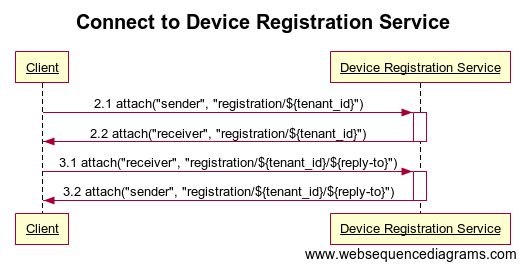
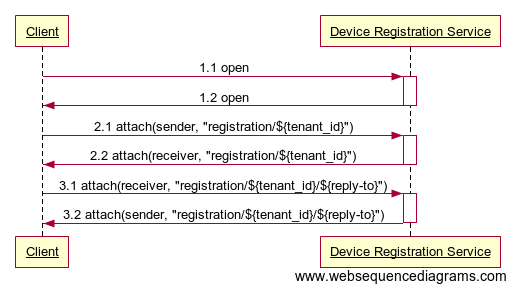
[#1271] Remove optional operations from Device Registration API spec.
Also remove obsolete properties from request and response messages.

Changed region(s): [[0.0, 0.0297, 0.9942, 0.9814]]

diff --git a/site/content/api/Device-Registration-API.md b/site/content/api/Device-Registration-API.md
@@ -1,62 +1,61 @@
 +++
-title = "Device Registration API"
+title = "Device Registration API Specification"
+slug = "Device Registration API"
 weight = 425
 +++
 
-The *Device Registration API* is used to make Eclipse Hono&trade; aware of devices that will connect to the service and send telemetry data.
-It can be used by *Protocol Adapters* to register devices that are not directly connected to Hono using an AMQP 1.0 connection.
-*Solutions* and other consumers may use the API to obtain information about a single device that is registered to Hono.
+The *Device Registration API* is used by Hono's protocol adapters to get information about devices connecting to the adapters.
 <!--more-->
-
-Note, however, that in real world applications the registration information will probably be kept and managed by an existing *system of record*, using e.g. a database for persisting the data. The Device Registration API accounts for this fact by means of defining only the [Assert Device Registration]({{< relref "#assert-device-registration" >}}) operation and the [Get Registration Information]({{< relref "#get-device-registration" >}}) operation as *mandatory*, i.e. these operations are strictly required by a Hono instance for it to work properly, whereas the remaining operations are defined as *optional* from a Hono perspective.
 
 The Device Registration API is defined by means of AMQP 1.0 message exchanges, i.e. a client needs to connect to Hono using an AMQP 1.0 client in order to invoke operations of the API as described in the following sections.
 
-## Preconditions
+<a name="preconditions"></a>
+## Preconditions for invoking the Device Registration API
 
-The preconditions for performing any of the operations are as follows:
+1. Client has established an AMQP connection with the Device Registration service.
+2. Client has established an AMQP link in role *sender* on the connection using target address `registration/${tenant_id}`. This link is used by the client to send request messages to the Device Registration service.
+3. Client has established an AMQP link in role *receiver* on the connection using source address `registration/${tenant_id}/${reply-to}` where *reply-to* may be any arbitrary string chosen by the client. This link is used by the client to receive responses to the requests it has sent to the Device Registration service. This link's source address is also referred to as the *reply-to* address for the request messages.
 
-1. Client has established an AMQP connection with Hono.
-2. Client has established an AMQP link in role *sender* with Hono using target address `registration/${tenant_id}`. This link is used by the client to send registration commands to Hono.
-3. Client has established an AMQP link in role *receiver* with Hono using source address `registration/${tenant_id}/${reply-to}` where *reply-to* may be any arbitrary string chosen by the client. This link is used by the client to receive responses to the registration requests it has sent to Hono. This link's source address is also referred to as the *reply-to* address for the request messages.
+{{< figure src="../connectToDeviceRegistration.png" alt="A client establishes an AMQP connection and the links required to invoke operations of the Device Registration service" title="Client connecting to Device Registration service" >}}
 
-This flow of messages is illustrated by the following sequence diagram (showing the AMQP performatives):
-
-![Device Registration message flow preconditions](../connectToDeviceRegistration.png)
-
-## Mandatory Operations
-
-The operations described in the following sections are invoked by Hono's components during run time and are therefore mandatory to implement.
-
-### Assert Device Registration
+## Assert Device Registration
 
 Clients use this command to verify that a device is registered for a particular tenant and is enabled.
 
-This operation is *mandatory* to implement.
-
 **Message Flow**
 
-The following sequence diagram illustrates the flow of messages involved in a *Client* getting an assertion of a device registration.
+The following sequence diagram illustrates the flow of messages involved in a *Client* asserting a device's registration status.
 
-![Assert Device Registration message flow](../assertDeviceRegistration_Success.png)
+{{< figure src="../assertDeviceRegistration_Success.png" title="Client asserting a device's registration status" alt="A client sends a request message for asserting a device's registration status and receives a response containing the registration status" >}}
 
 
 **Request Message Format**
 
-The following table provides an overview of the properties a client needs to set on a message to get registration information in addition to the [Standard Request Properties]({{< relref "#standard-request-properties" >}}).
+The following table provides an overview of the properties a client needs to set on a message to assert a device's registration status:
 
-| Name         | Mandatory | Location                 | AMQP Type | Description |
-| :----------- | :-------: | :----------------------- | :-------- | :---------- |
-| *subject*    | yes       | *properties*             | *string*  | MUST be set to `assert`. |
-| *gateway_id* | no        | *application-properties* | *string*  | The identifier of the gateway that wants to get an assertion *on behalf* of another device (given in the *device_id* property).<br>An implementation SHOULD verify that the gateway exists, is enabled and is authorized to get an assertion for, and thus send data on behalf of, the device. |
+| Name             | Mandatory | Location                 | AMQP Type    | Description |
+| :--------------- | :-------: | :----------------------- | :----------- | :---------- |
+| *correlation-id* | no        | *properties*             | *message-id* | MAY contain an ID used to correlate a response message to the original request. If set, it is used as the *correlation-id* property in the response, otherwise the value of the *message-id* property is used. Either this or the *message-id* property MUST be set. |
+| *device_id*      | yes       | *application-properties* | *string*     | MUST contain the ID of the device that is subject to the operation. |
+| *gateway_id*     | no        | *application-properties* | *string*     | The identifier of the gateway that wants to get an assertion *on behalf* of another device (given in the *device_id* property).<br>An implementation SHOULD verify that the gateway exists, is enabled and is authorized to get an assertion for, and thus send data on behalf of, the device. |
+| *message-id*     | no        | *properties*             | *string*     | MAY contain an identifier that uniquely identifies the message at the sender side. Either this or the *correlation-id* property MUST be set. |
+| *reply-to*       | yes       | *properties*             | *string*     | MUST contain the source address that the client wants to received response messages from. This address MUST be the same as the source address used for establishing the client's receive link (see [Preconditions]({{< relref "#preconditions" >}})). |
+| *subject*        | yes       | *properties*             | *string*     | MUST be set to `assert`. |
 
 The body of the message SHOULD be empty and will be ignored if it is not.
 
 **Response Message Format**
 
-A response to an *assertion* request contains the [Standard Response Properties]({{< relref "#standard-response-properties" >}}).
+The following table provides an overview of the properties contained in a response message to an *assert* request:
 
-The body of the response message consists of a single *Data* section containing a UTF-8 encoded string representation of a single JSON object having the following properties:
+| Name             | Mandatory | Location                 | AMQP Type    | Description |
+| :--------------- | :-------: | :----------------------- | :----------- | :---------- |
+| *correlation-id* | yes       | *properties*             | *message-id* | Contains the *message-id* (or the *correlation-id*, if specified) of the request message that this message is the response to. |
+| *content-type*   | no        | *properties*             | *string*     | MUST be set to `application/json` if the invocation of the operation was successful and the body of the response message contains payload as described below. |
+| *status*         | yes       | *application-properties* | *int*        | Contains the status code indicating the outcome of the operation. Concrete values and their semantics are defined below. |
+| *cache_control*  | no        | *application-properties* | *string*     | Contains an [RFC 2616](https://tools.ietf.org/html/rfc2616#section-14.9) compliant <em>cache directive</em>. The directive contained in the property MUST be obeyed by clients that are caching responses. |
+
+In case of a successful invocation of the operation, the body of the response message consists of a single *Data* section containing a UTF-8 encoded string representation of a single JSON object having the following properties:
 
 | Name             | Mandatory | JSON Type     | Description |
 | :--------------- | :-------: | :------------ | :---------- |
@@ -79,277 +78,18 @@ The response message's *status* property may contain the following codes:
 
 | Code  | Description |
 | :---- | :---------- |
-| *200* | OK, the device is registered for the given tenant and is enabled. The payload contains the asserted device's default properties (if any). |
+| *200* | OK, the device is registered for the given tenant and is enabled. The response message body contains the asserted device's registration status. |
+| *400* | Bad Request, the request message did not contain all mandatory properties.
 | *403* | Forbidden, the gateway with the given *gateway id* either does not exist, is not enabled or is not authorized to get an assertion for the device with the given *device id*. |
 | *404* | Not Found, there is no device registered with the given *device id* within the given *tenant id* or the device is not enabled. |
 
-For status codes indicating an error (codes in the `400 - 499` range) the message body MAY contain a detailed description of the error that occurred.
-
-
-### Get Registration Information
-
-Clients use this command to *retrieve* information about a registered device.
-
-This operation is *mandatory* to implement.
-
-**Message Flow**
-
-
-The following sequence diagram illustrates the flow of messages involved in a *Client* retrieving registration information.
-
-![Get Registration Information message flow](../getDeviceInformation_Success.png)
-
-
-**Request Message Format**
-
-The following table provides an overview of the properties a client needs to set on a message to get registration information in addition to the [Standard Request Properties]({{< relref "#standard-request-properties" >}}).
-
-| Name        | Mandatory | Location                 | AMQP Type | Description |
-| :---------- | :-------: | :----------------------- | :-------- | :---------- |
-| *subject*   | yes       | *properties*             | *string*  | MUST be set to `get`. |
-
-The body of the message SHOULD be empty and will be ignored if it is not.
-
-**Response Message Format**
-
-A response to a *get registration information* request contains the [Standard Response Properties]({{< relref "#standard-response-properties" >}}).
-
-The response message includes payload as defined in the [Payload Format]({{< relref "#payload-format" >}}) section below. The `data` member contains the key/value pairs that have been registered for the device.
-
-The response message's *status* property may contain the following codes:
-
-| Code | Description |
-| :--- | :---------- |
-| *200* | OK, the payload contains the registration information for the device. |
-| *404* | Not Found, there is no device registered with the given *device_id* within the given *tenant_id*. |
-
-For status codes indicating an error (codes in the `400 - 499` range) the message body MAY contain a detailed description of the error that occurred.
-
-## Optional Operations
-
-The operations described in the following sections can be used by clients to manage device registration information. In real world scenarios the provisioning of devices will most likely be an orchestrated process spanning multiple components of which Hono will only be one.
-
-Conducting and orchestrating the overall provisioning process is not in scope of Hono. However, Hono's device registration API can easily be used as part of such an overall provisioning process.
-
-Hono's components do not invoke any of the operations in this section. Therefore, these operations are *optional* to implement.
-
-{{% warning title="Deprecated" %}}
-All of the optional operation have been deprecated as of 1.0-M2 and will be removed in Hono 1.0.
-Functionality for *managing* the content of a device registry will be defined by means of an HTTP based
-API that will be specified as part of Hono 1.0.
-{{% /warning %}}
-
-### Register Device
-
-Clients use this command to initially *add* information about a new device to Hono. Each device is registered within a *tenant*, providing the scope of the device's identifier.
-
-This operation is *optional*, implementors of this API may provide other means for adding registration information, e.g. a RESTful API or a configuration file.
-
-**Message Flow**
-
-The following sequence diagram illustrates the flow of messages involved in a *Client* registering a device.
-
-![Register Device message flow](../registerDeviceInformation_Success.png)
-
-
-**Request Message Format**
-
-The following table provides an overview of the properties a client needs to set on a *register device* message in addition to the [Standard Request Properties]({{< relref "#standard-request-properties" >}}).
-
-| Name        | Mandatory | Location                 | AMQP Type | Description |
-| :---------- | :-------: | :----------------------- | :-------- | :---------- |
-| *subject*   | yes       | *properties*             | *string*  | MUST be set to `register`. |
-
-The request message MAY include payload as defined in the [Payload Format]({{< relref "#payload-format" >}}) section below.
-
-The key/value pairs provided in the payload may be useful e.g. for recording metadata about the device like the manufacturer or model.
- 
-**Response Message Format**
-
-A response to an *add credentials* request contains the [Standard Response Properties]({{< relref "#standard-response-properties" >}}).
-
-The response message's *status* property may contain the following codes:
-
-| Code  | Description |
-| :---- | :---------- |
-| *201* | Created, the device has been successfully registered. |
-| *409* | Conflict, there already exists a device registration for the given *device_id* within this tenant. |
-
-For status codes indicating an error (codes in the `400 - 499` range) the message body MAY contain a detailed description of the error that occurred.
-
-### Update Device Registration
-
-Clients use this command to *update* information about an already registered device. All of the information that has been previously registered for the device gets *replaced* with the information contained in the request message.
-
-This operation is *optional*, implementors of this API may provide other means for updating registration information, e.g. a RESTful API or a configuration file.
-
-**Message Flow**
-
-The following sequence diagram illustrates the flow of messages involved in a *Client* updating registration information.
-
-![Update Registration Information message flow](../updateDeviceInformation_Success.png)
-
-
-**Request Message Format**
-
-The following table provides an overview of the properties a client needs to set on an *update registration* message in addition to the [Standard Request Properties]({{< relref "#standard-request-properties" >}}).
-
-| Name        | Mandatory | Location                 | AMQP Type | Description |
-| :---------- | :-------: | :----------------------- | :-------- | :---------- |
-| *subject*   | yes       | *properties*             | *string*  | MUST be set to `update`. |
-
-The request message MAY include payload as defined in the [Payload Format]({{< relref "#payload-format" >}}) section below.
- 
-**Response Message Format**
-
-A response to an *update registration* request contains the [Standard Response Properties]({{< relref "#standard-response-properties" >}}).
-
-The response message's *status* property may contain the following codes:
-
-| Code  | Description |
-| :---- | :---------- |
-| *204* | No Content, the device registration has been updated successfully. |
-| *404* | Not Found, there is no device registered with the given *device_id* within the given *tenant_id*. |
-
-For status codes indicating an error (codes in the `400 - 499` range) the message body MAY contain a detailed description of the error that occurred.
-
-### Deregister Device
-
-Clients use this command to *remove* all information about a device from Hono. Once a device is deregistered, clients can no longer use Hono to interact with the device nor can they consume any more data produced by the device.
-
-This operation is *optional*, implementors of this API may provide other means for deleting registration information, e.g. a RESTful API or a configuration file.
-
-**Message Flow**
-
-The following sequence diagram illustrates the flow of messages involved in a *Client* deregistering a device.
-
-![Deregister Device message flow](../deregisterDeviceInformation_Success.png)
-
-
-**Request Message Format**
-
-The following table provides an overview of the properties a client needs to set on a *deregister device* message in addition to the [Standard Request Properties]({{< relref "#standard-request-properties" >}}).
-
-| Name        | Mandatory | Location                 | AMQP Type | Description |
-| :---------- | :-------: | :----------------------- | :-------- | :---------- |
-| *subject*   | yes       | *properties*             | *string*  | MUST be set to `deregister`. |
-
-The body of the message SHOULD be empty and will be ignored if it is not.
-
-
-**Response Message Format**
-
-A response to a *deregister device* request contains the [Standard Response Properties]({{< relref "#standard-response-properties" >}}).
-
-The response may contain the following status codes:
-
-| Code  | Description |
-| :---- | :---------- |
-| *204* | No Content, the device has been successfully deregistered. |
-| *404* | Not Found, there is no device registered with the given *device_id* within the given *tenant_id*. |
-
-For status codes indicating an error (codes in the `400 - 499` range) the message body MAY contain a detailed description of the error that occurred.
-
-## Standard Message Properties
-
-Due to the nature of the request/response message pattern of the operations of the Device Registration API, there are some standard properties shared by all of the request and response messages exchanged as part of the operations.
-
-### Standard Request Properties
-
-The following table provides an overview of the properties shared by all request messages regardless of the particular operation being invoked.
-
-| Name             | Mandatory | Location                 | AMQP Type    | Description |
-| :--------------- | :-------: | :----------------------- | :----------- | :---------- |
-| *subject*        | yes       | *properties*             | *string*     | MUST be set to the value defined by the particular operation being invoked. |
-| *correlation-id* | no        | *properties*             | *message-id* | MAY contain an ID used to correlate a response message to the original request. If set, it is used as the *correlation-id* property in the response, otherwise the value of the *message-id* property is used. |
-| *message-id*     | yes       | *properties*             | *string*     | MUST contain an identifier that uniquely identifies the message at the sender side. |
-| *reply-to*       | yes       | *properties*             | *string*     | MUST contain the source address that the client wants to received response messages from. This address MUST be the same as the source address used for establishing the client's receive link (see [Preconditions]({{< relref "#preconditions" >}})). |
-| *content-type*   | yes       | *properties*             | *string*     | MUST be set to `application/json`. |
-| *device_id*      | yes       | *application-properties* | *string*     | MUST contain the ID of the device that is subject to the operation. |
-
-### Standard Response Properties
-
-The following table provides an overview of the properties shared by all response messages regardless of the particular operation being invoked.
-
-| Name             | Mandatory | Location                 | AMQP Type    | Description |
-| :--------------- | :-------: | :----------------------- | :----------- | :---------- |
-| *correlation-id* | yes       | *properties*             | *message-id* | Contains the *message-id* (or the *correlation-id*, if specified) of the request message that this message is the response to. |
-| *content-type*   | yes       | *properties*             | *string*     | MUST be set to `application/json`. |
-| *device_id*      | yes       | *application-properties* | *string*     | Contains the ID of the device. |
-| *tenant_id*      | yes       | *application-properties* | *string*     | Contains the ID of the tenant to which the device belongs. |
-| *status*         | yes       | *application-properties* | *int*        | Contains the status code indicating the outcome of the operation. Concrete values and their semantics are defined for each particular operation. |
-| *cache_control*  | no        | *application-properties* | *string*     | Contains an [RFC 2616](https://tools.ietf.org/html/rfc2616#section-14.9) compliant <em>cache directive</em>. The directive contained in the property MUST be obeyed by clients that are caching responses. |
+For status codes indicating an error (codes in the `400 - 499` range) the message body MAY contain a detailed description of the error that occurred. In this case, the response message's *content-type* property SHOULD be set accordingly.
 
 ## Delivery States
 
-Hono uses the following AMQP message delivery states when receiving request messages from clients:
+The Device Registration service uses the following AMQP message delivery states when receiving request messages from clients:
 
 | Delivery State | Description |
 | :------------- | :---------- |
-| *ACCEPTED*     | Indicates that Hono has successfully received and accepted the request for processing. |
-| *REJECTED*     | Indicates that Hono has received the request but was not able to process it. The *error* field contains information regarding the reason why. Clients should not try to re-send the request using the same message properties in this case. |
-
-## Payload Format
-
-Most of the operations of the Device Registration API allow or require the inclusion of registration data in the payload of the
-request or response messages of the operation. Such payload is carried in the body of the corresponding AMQP 
-messages as part of a single *Data* section. The content type must be set to `application/json`.
-
-The registration data is carried in the payload as a UTF-8 encoded string representation of a single JSON object. It is an error to include payload that is not of this type.
-
-### Request Payload
-
-The table below provides an overview of the standard members defined for the JSON request object:
-
-| Name                     | Mandatory | JSON Type     | Default Value | Description |
-| :------------------------| :-------: | :------------ | :------------ | :---------- |
-| *enabled*                | *no*      | *boolean*     | `true`       | If set to `false` the device is currently disabled. Protocol adapters MUST NOT allow disabled devices to connect and MUST NOT accept data published by such devices. |
-| *defaults*               | *no*      | *object*      | `-`          | Arbitrary *default* properties for the device which can be used by protocol adapters to augment downstream messages with missing information, e.g. setting a default content type or TTL. |
-
-The JSON object MAY contain an arbitrary number of additional members with arbitrary names which can be of a scalar or a complex type.
-This allows for future *well-known* additions and also allows *clients* to add further information which might be relevant to a *custom* adapter only.
-
-Below is an example for a payload of a request for registering a device with a default content type:
-~~~json
-{
-  "manufacturer": "ACME Corp.",
-  "firmware": "v1.5",
-  "defaults": {
-    "content-type": "application/vnd.acme+json"
-  }
-}
-~~~
-
-{{% note %}}
-The device's *enabled* property will be set to *true* by default if the request message either does not contain any payload at all or 
-if the payload does not contain the *enabled* property.
-{{% /note %}}
-
-### Response Payload
-
-
-The JSON object conveyed in a response payload always contains a string typed member of name `device-id` whose value is the ID of the device as provided during registration.
-In addition, the object contains a property with name `data` of type JSON *object* with the following structure:
-
-| Name                     | Mandatory | JSON Type     | Default Value | Description |
-| :------------------------| :-------: | :------------ | :------------ | :---------- |
-| *enabled*                | *no*      | *boolean*     | `true`       | If set to `false` the device is currently disabled. Protocol adapters MUST NOT allow disabled devices to connect and MUST NOT accept data published by such devices. |
-| *defaults*               | *no*      | *object*      | `-`          | Arbitrary *default* properties for the device which can be used by protocol adapters to augment downstream messages with missing information, e.g. setting a default content type or TTL. |
-
-The `data` object MAY contain an arbitrary number of additional members with arbitrary names which can be of a scalar or a complex type.
-This allows for future *well-known* additions and also allows *clients* to add further information which might be relevant to a *custom* adapter only.
-
-Below is an example for a payload of a response to a *get* request for device `4711`:
-~~~json
-{
-  "device-id" : "4711",
-  "data" : {
-    "enabled": true,
-    "manufacturer": "ACME Corp.",
-    "firmware": "v1.5",
-    "defaults": {
-      "content-type": "application/vnd.acme+json"
-    }
-  }
-}
-~~~
+| *ACCEPTED*     | Indicates that the request message has been received and accepted for processing. |
+| *REJECTED*     | Indicates that the request message has been received but cannot be processed. The disposition frame's *error* field contains information regarding the reason why. Clients should not try to re-send the request using the same message properties in this case. |

diff --git a/site/content/release-notes.md b/site/content/release-notes.md
@@ -17,7 +17,12 @@ title = "Release Notes"
 ### API Changes
 
 * The optional methods of the [Tenant API]({{< ref "/api/Tenant-API.md" >}}) have been removed.
-  Implementations of the Tenant API are encouraged to expose the *tenant* endpoint defined by
+  Implementations of the Tenant API are encouraged to expose the *tenants* endpoint defined by
+  [Hono's HTTP based management API](https://eclipse.org/hono/api/device-registry-v1.yaml) instead.
+  Several of the formerly mandatory to include properties of the request and response messages have
+  been made optional or removed altogether. Existing clients should not be affected by these changes, though.
+* The optional methods of the [Device Registration API]({{< ref "/api/Device-Registration-API.md" >}}) have been removed.
+  Implementations of the Device Registration API are encouraged to expose the *devices* endpoint defined by
   [Hono's HTTP based management API](https://eclipse.org/hono/api/device-registry-v1.yaml) instead.
   Several of the formerly mandatory to include properties of the request and response messages have
   been made optional or removed altogether. Existing clients should not be affected by these changes, though.
